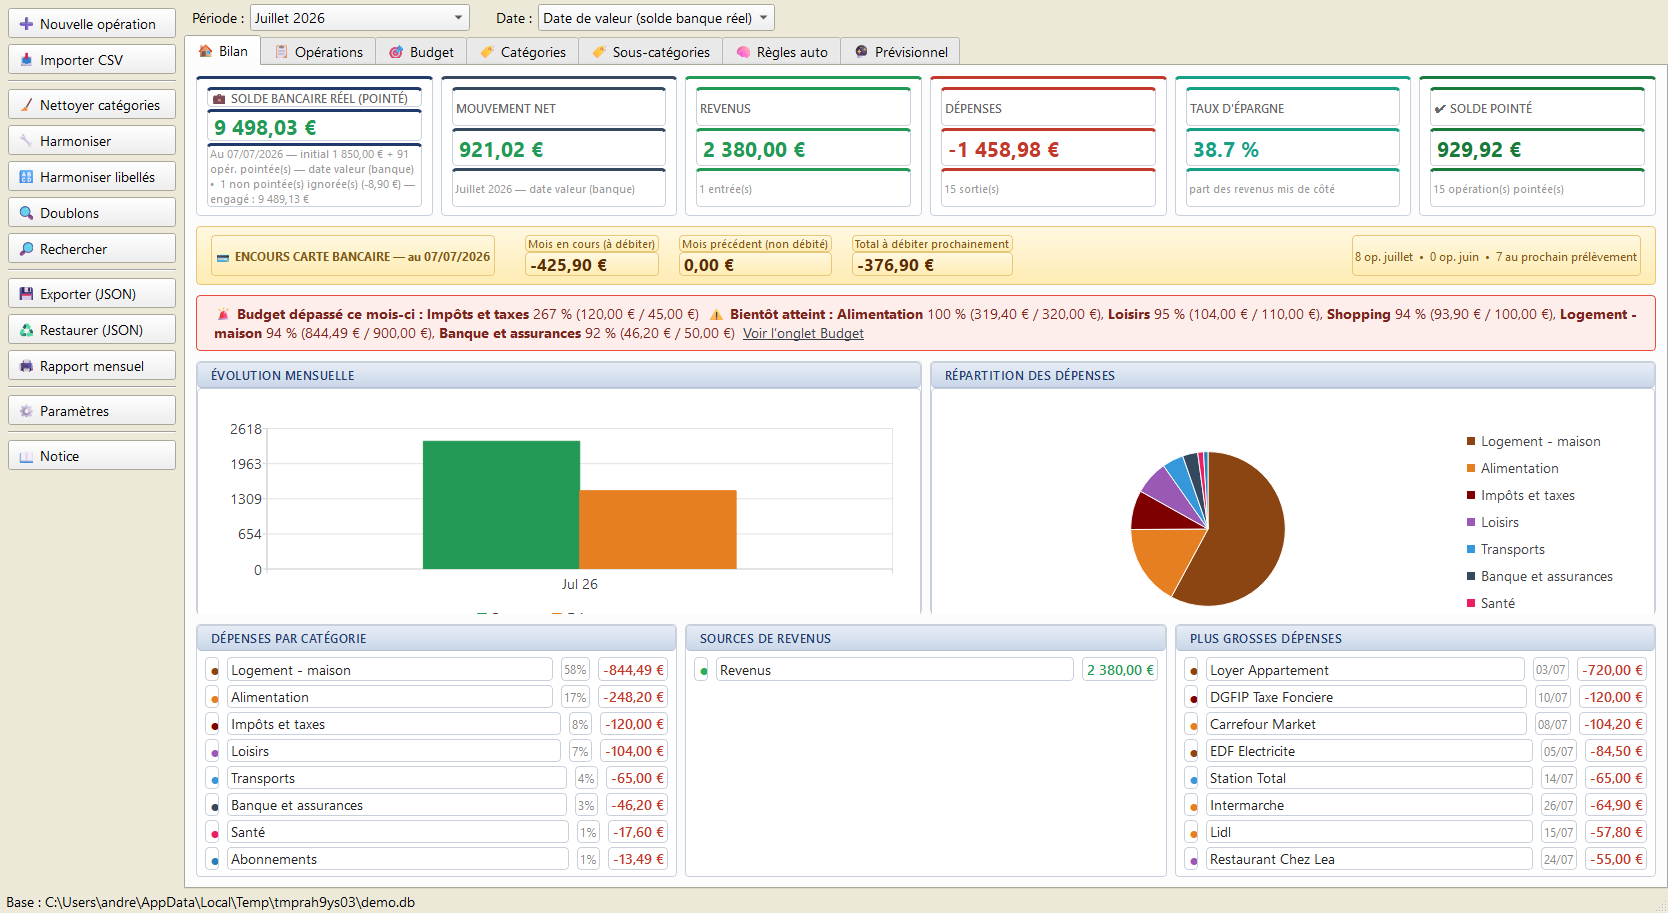
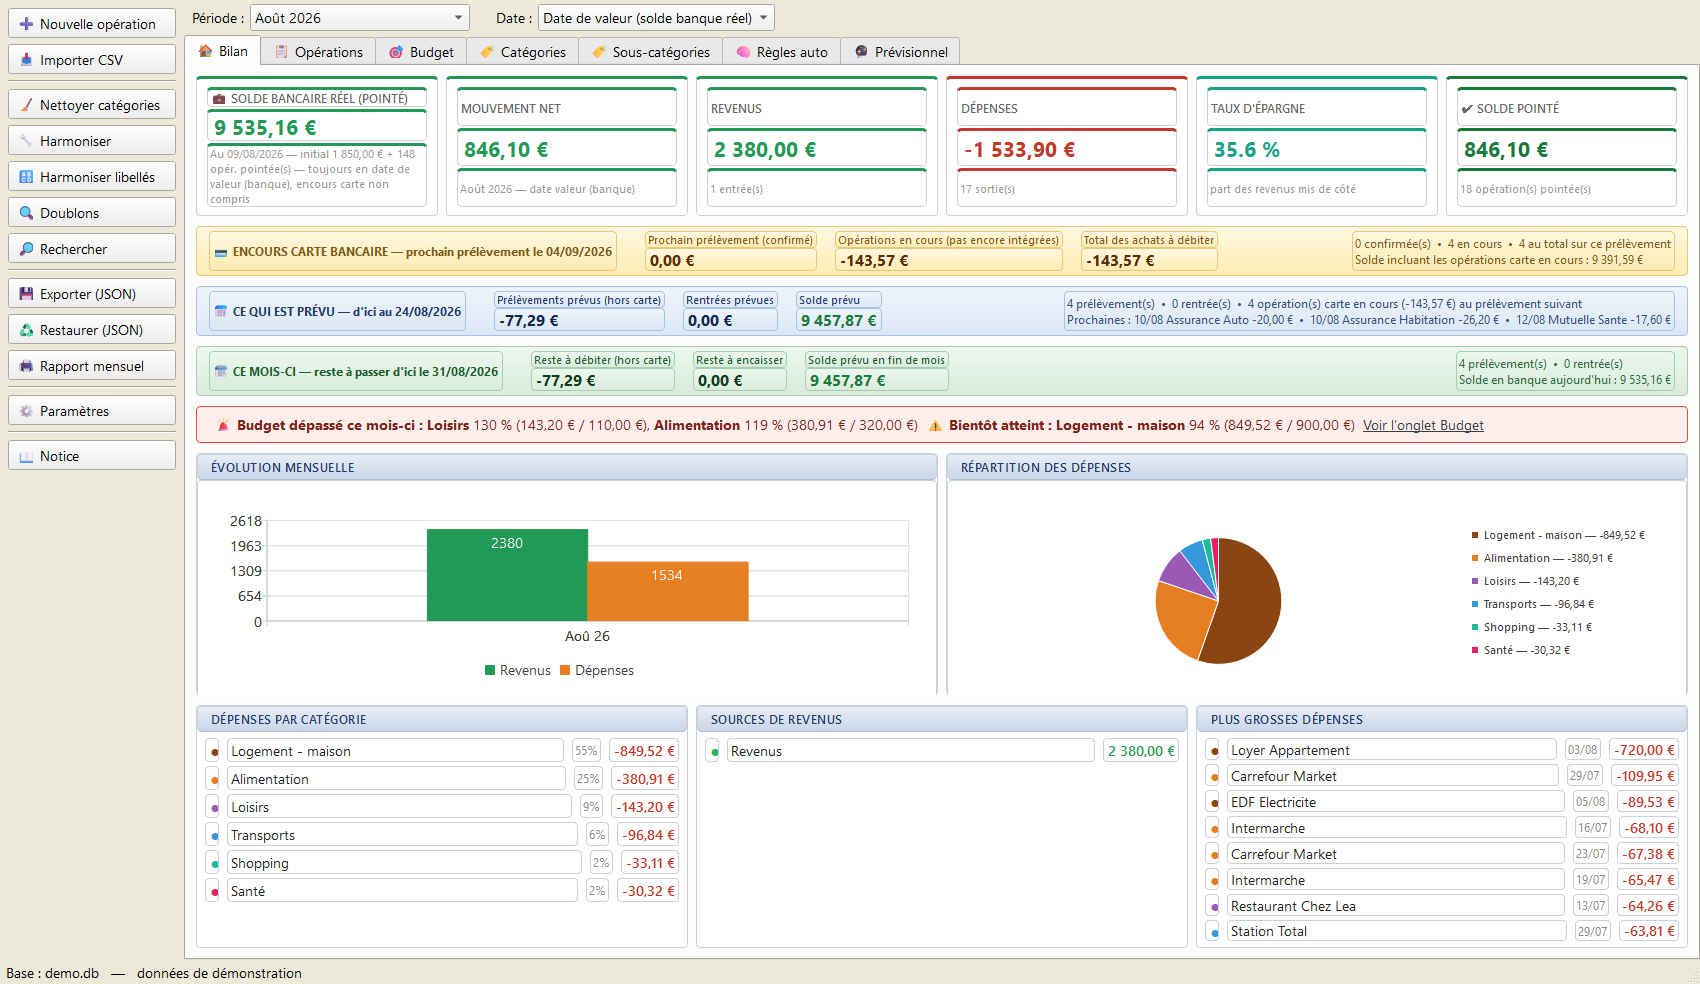
Page publique : captures a jour et deux fonctionnalites ajoutees
Les captures dataient du 7 juillet et ne montraient rien des versions
suivantes. Elles sont refaites sur un jeu de donnees de demonstration
entierement invente, et laissent voir les bandeaux « ce qui est prevu »
et « ce mois-ci » ainsi que l'onglet Previsionnel avec la generation
des echeances.

La liste des fonctionnalites gagne deux cartes qui manquaient :
les echeances du mois et le suivi du debit differe de la carte.

diff --git a/docs/index.html b/docs/index.html
@@ -121,8 +121,10 @@
       <div class="card"><h3>🧠 Catégorisation automatique</h3><p>Des règles classent vos opérations toutes seules au fil des imports.</p></div>
       <div class="card"><h3>🎯 Budgets mensuels</h3><p>Un budget par catégorie, avec barres de progression vertes / oranges / rouges.</p></div>
       <div class="card"><h3>🔮 Prévisionnel</h3><p>Déclarez vos opérations récurrentes (loyer, salaire, abonnements) et anticipez les mois à venir.</p></div>
+      <div class="card"><h3>📅 Échéances du mois</h3><p>Créez d'un clic tout ce qui doit être débité ou encaissé dans le mois. L'import les complète ensuite avec la vraie ligne du relevé, sans doublon.</p></div>
       <div class="card"><h3>🖨 Rapports mensuels</h3><p>Une synthèse imprimable ou exportable en PDF, mois par mois.</p></div>
       <div class="card"><h3>✔ Rapprochement bancaire</h3><p>Pointez vos opérations pour retrouver à l'euro près le solde de votre relevé.</p></div>
+      <div class="card"><h3>💳 Débit différé</h3><p>L'encours de la carte est suivi à part : il n'entre dans votre solde bancaire qu'au jour du prélèvement, comme à la banque.</p></div>
     </div>
   </section>
 
